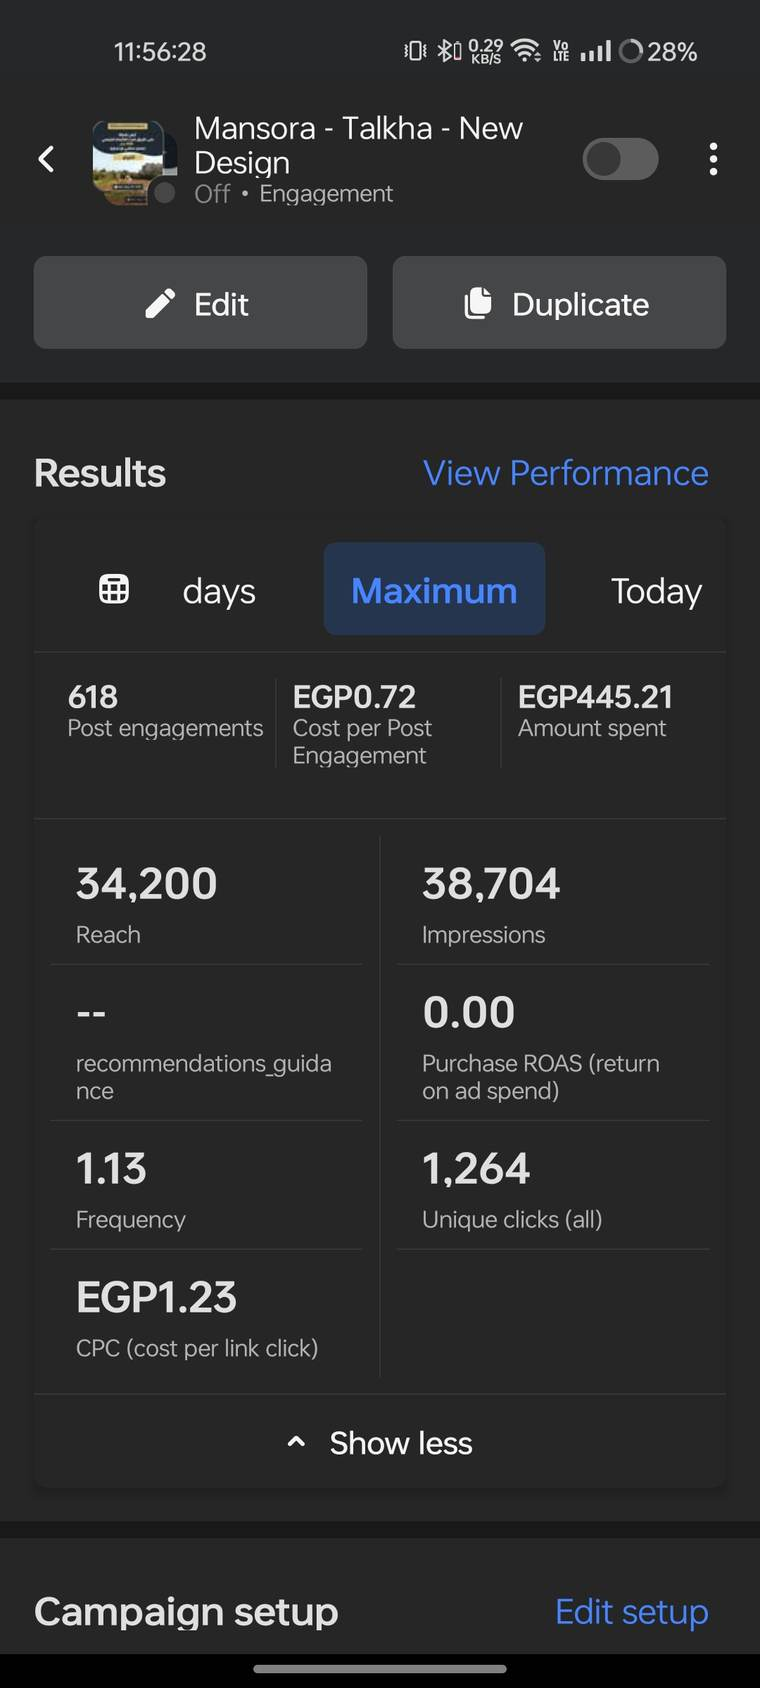
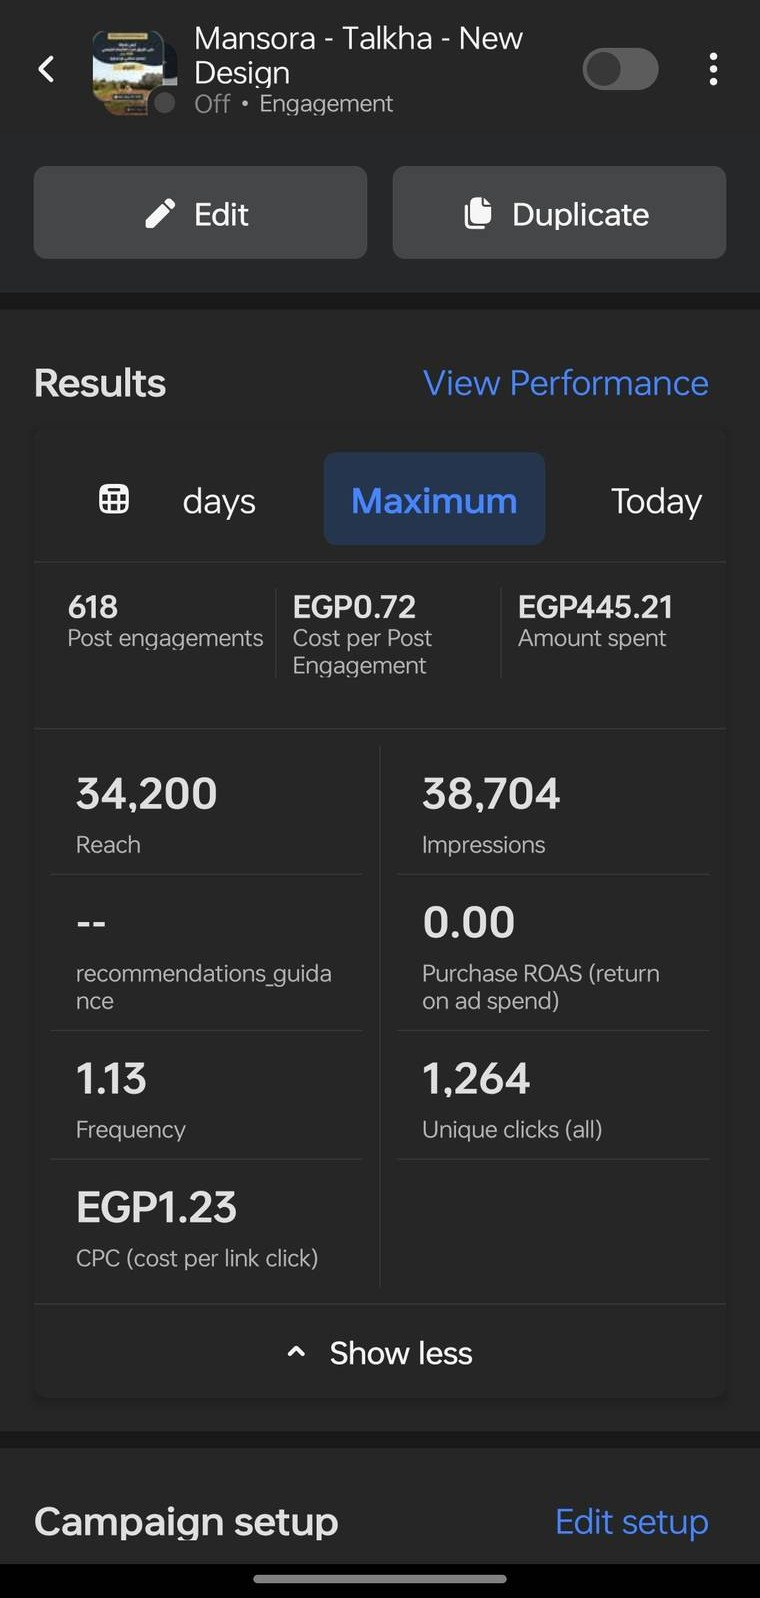
Crop phone status bar off all Meta Ads screenshots
Removed the ~90px phone status bar (clock/battery/notifications) from
the 15 ads-*.jpg result screenshots that had it; metrics and layout
untouched. Bumped the ads image cache-bust query to v=20261121b.

diff --git a/js/content.js b/js/content.js
@@ -110,7 +110,7 @@
 
   /* ---------- projects ---------- */
   const projWrap = $("#projects");
-  const adsImg = (id) => ROOT + "assets/images/ads-" + id.replace("i-mb", "") + ".jpg";
+  const adsImg = (id) => ROOT + "assets/images/ads-" + id.replace("i-mb", "") + ".jpg?v=20261121b";
   const usedProof = {};
   if (projWrap)
     C.projects.forEach((p, pi) => {
